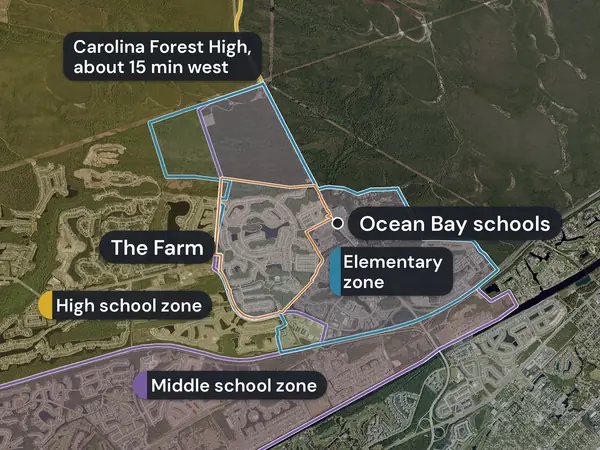
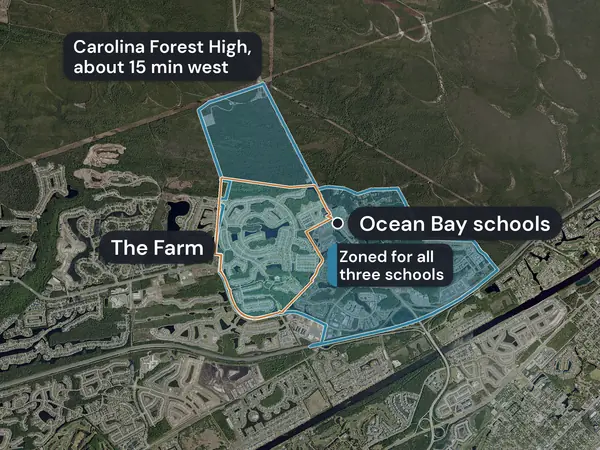
The Farm, round 10: school map shades one area zoned for all three schools, with The Farm inside
The three stacked zone fills hid the yellow inside The Farm (OWNER-EYE-9, medium 1). The map now shades the intersection of the three 2025-2026 zones, labelled 'Zoned for all three schools', and the caption says so. Row 96 pending verification (round 10). The bombing-range section is unchanged.

Claude-Session: https://claude.ai/code/session_012hytMouaajg3aWuepm8WSU

diff --git a/batches/2026-10-b/specs/the-farm.js b/batches/2026-10-b/specs/the-farm.js
@@ -142,7 +142,7 @@ const POOL = ph.aerial("the-farm-pool-from-above-2026", "The large pool and the 
 /* Round 8 (owner, 2026-10-14): a wide, labelled aerial for "where it is" in place of the drawn region map, and a
    school zone aerial from Horry County Schools' zone layers (ledger rows 92 and 93, pending verification). */
 const WIDE = ph.aerial("the-farm-where-from-above", "Where The Farm is. The orange line is its edge.", { closeUp: true });
-const SCHOOLS = ph.aerial("the-farm-school-zones-from-above", "The Farm, in orange, with the school zones: a blue line for Ocean Bay Elementary, purple shading for Ocean Bay Middle and yellow shading for Carolina Forest High.", { closeUp: true });
+const SCHOOLS = ph.aerial("the-farm-school-zones-from-above", "The blue area is zoned for Ocean Bay Elementary, Ocean Bay Middle and Carolina Forest High. The Farm is outlined in orange.", { closeUp: true });
 const M = maps("the-farm", [
   { id: "beach_mb101", name: "the beach in Myrtle Beach", short: "Beach", kind: "beach" },
   { id: "er_mcleod", name: "McLeod Health's emergency room", short: "Emergency room", kind: "hospital" },

diff --git a/batches/2026-10-b/facts/the-farm-facts.md b/batches/2026-10-b/facts/the-farm-facts.md
@@ -164,6 +164,7 @@ The verifier did none of the research. Every source was opened again on 2026-10-
 | 93 | (added 2026-10-14, round 8, where map) The where-it-is aerial labels The Farm, Carolina Forest Boulevard, US 501, "Publix, about 2 min", "Emergency room, about 5 min" and "Beach, about 10 min". Page wording: "The Farm is in Carolina Forest, on Carolina Forest Boulevard." "The map shows drive times by car from the entrance by the large pool." Caption: "Where The Farm is. The orange line is its edge." | 6 labels | (a) Horry County GIS roads layer 18 centerlines: label points are vertices of CAROLINA FOREST BLVD (-78.92273, 33.759784) and HWY 501 (-78.921455, 33.713944). (b) The dots and minutes are the end points and minutes of verified rows 28 (beach access MYRTLE BEACH 101, -78.846516, 33.719685; 10 min), 29 (Publix, -78.870501, 33.751759; 2 min) and 30 (McLeod emergency department, -78.852256, 33.757293). (c) The entrance on Carolina Forest Boulevard: the reference point of row 27 (Farmers Rest Drive meets Carolina Forest Boulevard). (d) NAIP 2023 tiles for the frame from the image service catalog. | (a) https://www.horrycounty.org/parcelapp/rest/services/HorryCountyGISApp/MapServer/18/query?geometry=-78.96%2C33.70%2C-78.84%2C33.79&geometryType=esriGeometryEnvelope&inSR=4326&spatialRel=esriSpatialRelIntersects&where=FULLNAME+LIKE+%27%25501%25%27+OR+FULLNAME+LIKE+%27CAROLINA+FOREST+BLVD%25%27+OR+FULLNAME+LIKE+%27%25HWY+31%25%27+OR+FULLNAME+LIKE+%27CAROLINA+BAYS%25%27+OR+FULLNAME+LIKE+%27INTERNATIONAL+DR%25%27&outFields=FULLNAME&returnGeometry=true&outSR=4326&f=json (paths grouped by FULLNAME) (d) https://imagery.nationalmap.gov/arcgis/rest/services/USGSNAIPImagery/ImageServer/query?where=Year%3D2023&geometry=-78.95562,33.69983,-78.81238,33.78916&geometryType=esriGeometryEnvelope&inSR=4326&spatialRel=esriSpatialRelIntersects&outFields=Name,Year&returnGeometry=false&f=json | (a) vertices [-78.92272302960954, 33.75978366092773] in CAROLINA FOREST BLVD and [-78.9214548890907, 33.71394399469124] in HWY 501. (d) eight tiles, each named ..._20230410: m_3307809_se, m_3307809_sw, m_3307810_se, m_3307810_sw, m_3307817_ne, m_3307817_nw, m_3307818_ne, m_3307818_nw. | 2026-10-14 | 2027-10 | verified with corrected wording | 2026-10-14 verifier re-ran county roads layer 18: HWY 501 and CAROLINA FOREST BLVD centerlines overlaid on the 1200x900 picture. Carolina Forest Blvd runs along The Farm's west and south-east edge and its label sits against the road (label point is a vertex on the line, label hangs just below it); the US 501 label sits on the 501 centerline (the dark diagonal band next to it is the waterway, not the road). The Farm, Publix, Emergency room and Beach dots land within about 5 px of their coordinates (Publix 136 Sapwood Rd; McLeod 107 McLeod Health Blvd; MYRTLE BEACH 101). Rows 27 to 30 are verified and the minutes agree (Publix about 2, beach about 10). 'On Carolina Forest Boulevard' holds (row 27: Farmers Rest Dr meets Carolina Forest Blvd; Mill St is also on it). The caption says only what the picture shows. No rating or quality word. Defect: the page sentence 'The map shows drive times by car from the entrance by the large pool' is too strong: the map shows minutes for Publix and the beach only; the emergency room label has none, and the entrance is not marked. Wording: The map shows drive times by car for Publix and the beach, from the entrance by the large pool. Or change the label 'Emergency room' to 'Emergency room, about 5 min' (row 30: 5.2 min) and keep the sentence. Researcher note kept: Writer's note: the labels add no new fact: the minutes and places are rows 28 to 30. |
 | 94 | (added 2026-10-14, round 9, history) Page wording in "What are the homes like": "D.R. Horton recorded The Farm's HOA rules in 2004 and added land in stages until 2017. In 2019, it ended its right to appoint a majority of the HOA board. The farm theme runs through the street names, such as Scarecrow Way, Haystack Way, Pumpkin Patch Lane and Wheatfield Drive." | 2004; 2017; 2019; four street names | Rows 18 and 19 (verified: covenants recorded February 13, 2004; land added 2004 to 2017); row 21 in the verifier's safe wording ("D.R. Horton ended its right to appoint a majority of the HOA board in July and August 2019"); neighborhoods-facts.md row 213 (verified with corrected wording: county roads layer 18 FULLNAME within about 500 m of 2884 Scarecrow Way: Scarecrow Way, Haystack Way, Pumpkin Patch Lane, Wheatfield Drive) and row 208 (the same history on the best neighborhoods page, verified). | See rows 18, 19, 21 and neighborhoods-facts.md rows 208 and 213 | See those rows. "HOA rules" for the covenants is the wording row 208 uses. | 2026-10-14 | 2028-10 | verified | 2026-10-14. Read ledger rows 18, 19 and 21 here and neighborhoods-facts.md rows 208 and 213; every part of the sentence matches them. 2004: covenants recorded 2/13/2004 (Book 2697, Page 128), row 18. Land added in stages 2004 to 2017, last amendments recorded 3/1/2017 and 5/3/2017, row 19. 2019: row 21 is marked wrong as written, and its safe wording (ended its right to appoint a majority of the HOA board in July and August 2019) is what the page says, in a year; 'handed control to the owners' is not used. Street names: I pulled the county roads layer 18 myself within the Farm's box (-78.8862, 33.7540, -78.8665, 33.7737) and got SCARECROW WAY, HAYSTACK WAY, PUMPKIN PATCH LN, WHEATFIELD DR, and also HAYSEED WAY, HARVEST RUN WAY and HARVESTER CIR, so 'the farm theme' holds. 'HOA rules' for the recorded covenants is the wording of neighborhoods row 208; a plainer word is 'covenants', but 'HOA rules' is acceptable. I did not re-open the HOA's posted PDFs or the deed index in this round; the rows were verified earlier. |
 | 95 | (added 2026-10-14, round 9, schools map redraw) The school zone aerial is redrawn so The Farm reads inside all three zones: a closer frame on the east side of Carolina Forest; the high school zone shaded yellow and the middle school zone shaded purple, the elementary zone a blue line with a faint fill; each zone label inside its own zone; one dot for the two Ocean Bay schools; Carolina Forest High is off the frame, so a note at the upper left reads "Carolina Forest High, about 15 min west". Caption unchanged (row 92). | zone label points (round 9b: each label's whole box inside its zone): Elementary (-78.857039, 33.760699) in all three; Middle (-78.883477, 33.745193) in middle and high, not elementary; High (-78.900692, 33.756099) in high only. Caption (round 9b): "The Farm, in orange, with the school zones: a blue line for Ocean Bay Elementary, purple shading for Ocean Bay Middle and yellow shading for Carolina Forest High." Carolina Forest High from the entrance: 0.095 degrees of longitude west, 0.024 north; 15.7 min (row 38) | Zone layers and address points as in row 92; drive time from row 38 (verified); NAIP 2023 tiles m_3307809_se, m_3307810_sw, m_3307817_ne, m_3307818_nw (all _20230410) from the image service catalog for the new frame. | As row 92; https://imagery.nationalmap.gov/arcgis/rest/services/USGSNAIPImagery/ImageServer/query?where=Year%3D2023&geometry=-78.92119,33.73633,-78.82281,33.79766&geometryType=esriGeometryEnvelope&inSR=4326&spatialRel=esriSpatialRelIntersects&outFields=Name&returnGeometry=false&f=json | Point tests (shapely) against the three zone polygons of row 92; frame bbox -78.92119, 33.73633, -78.82281, 33.79766. | 2026-10-14 | 2027-06 | verified with corrected wording | 2026-10-14. Drive: re-ran OSRM from the entrance point (-78.87521, 33.75487): Ocean Bay Middle 247.5 s, 2,865.1 m; Ocean Bay Elementary 365.2 s, 3,534.9 m; Carolina Forest High 941.1 s (15.7 min), 12,095.1 m. Same as row 38. Carolina Forest High is 0.095 degrees west and 0.024 north of the entrance, so 'west' (west-north-west) holds; '15 min' is the page's usual rounding (15.7 min would round to 16). Zones: pulled the three layers (HCS_Attendance_Zones 2025-2026, layers 3, 2, 1) and drew them over the image on the stated frame (-78.92119, 33.73633, -78.82281, 33.79766). The drawn lines and shading match the district layers: the blue line is the elementary zone, the purple the middle, the high school zone covers the west and north side and its edge runs along the east of the frame. The Farm lies inside all three (row 92: 1,559 of 1,559 points). The three label points in the row fall in the right zones (Elementary point in all three, Middle point in middle and high, High point in high only). One dot for both Ocean Bay schools sits between them (about 200 m apart). Problems with the picture: (1) The Elementary label is not inside its zone: the dot and the word 'Elementary' are, but the pill runs past the zone's east edge, so 'zone' (about 12 to 18 percent of the pill) sits outside all three zones. Move the label left or down so the whole pill is inside the blue line. (2) The High school zone label's right end overlaps the blue and purple lines (it stays inside the high zone, but its end looks like it sits on the elementary and middle zone lines); move it left. (3) The Middle label is inside, but its top-left corner touches the purple line. (4) The yellow high school line is drawn only at the top left; the rest of that zone's edge is hidden behind the blue and purple lines or is shading only. Caption: 'school zone lines: ... yellow for Carolina Forest High' overstates lines. Safe caption: The Farm, in orange, with the school zones: a blue line for Ocean Bay Elementary, purple shading for Ocean Bay Middle and yellow shading for Carolina Forest High. The yellow shading is faint on the green aerial. |
+| 96 | (added 2026-10-14, round 10, schools map redraw) The school zone aerial now shades one area, the land inside all three 2025 to 2026 zones (Ocean Bay Elementary, Ocean Bay Middle, Carolina Forest High), with The Farm's outline inside it and the label "Zoned for all three schools". The separate zone fills and the three zone labels are gone. Caption: "The blue area is zoned for Ocean Bay Elementary, Ocean Bay Middle and Carolina Forest High. The Farm is outlined in orange." | one polygon, 850.5 square micro-degrees (elementary zone 958.9); label center (-78.857244, 33.761551) | The three zone layers of rows 36 and 92, intersected with shapely; frame, school dot and the Carolina Forest High note as in row 95. | As row 92 (the three layer queries) | Intersection of the three geojson polygons; the label box tested inside the area (12 px margin) and clear of The Farm's outline. | 2026-10-14 | 2027-06 | pending verification (round 10) | Writer's note: the round 9 shading drew three zones on top of each other, so the yellow did not show inside The Farm (OWNER-EYE-9, medium 1). One shared area says the page sentence directly. As in row 92, the outline's west edge runs over a strip of woods with no address points outside the area; every one of the 1,559 address points inside the outline is inside it. |
 
 ## Sales evidence for rows 47 to 49
 
